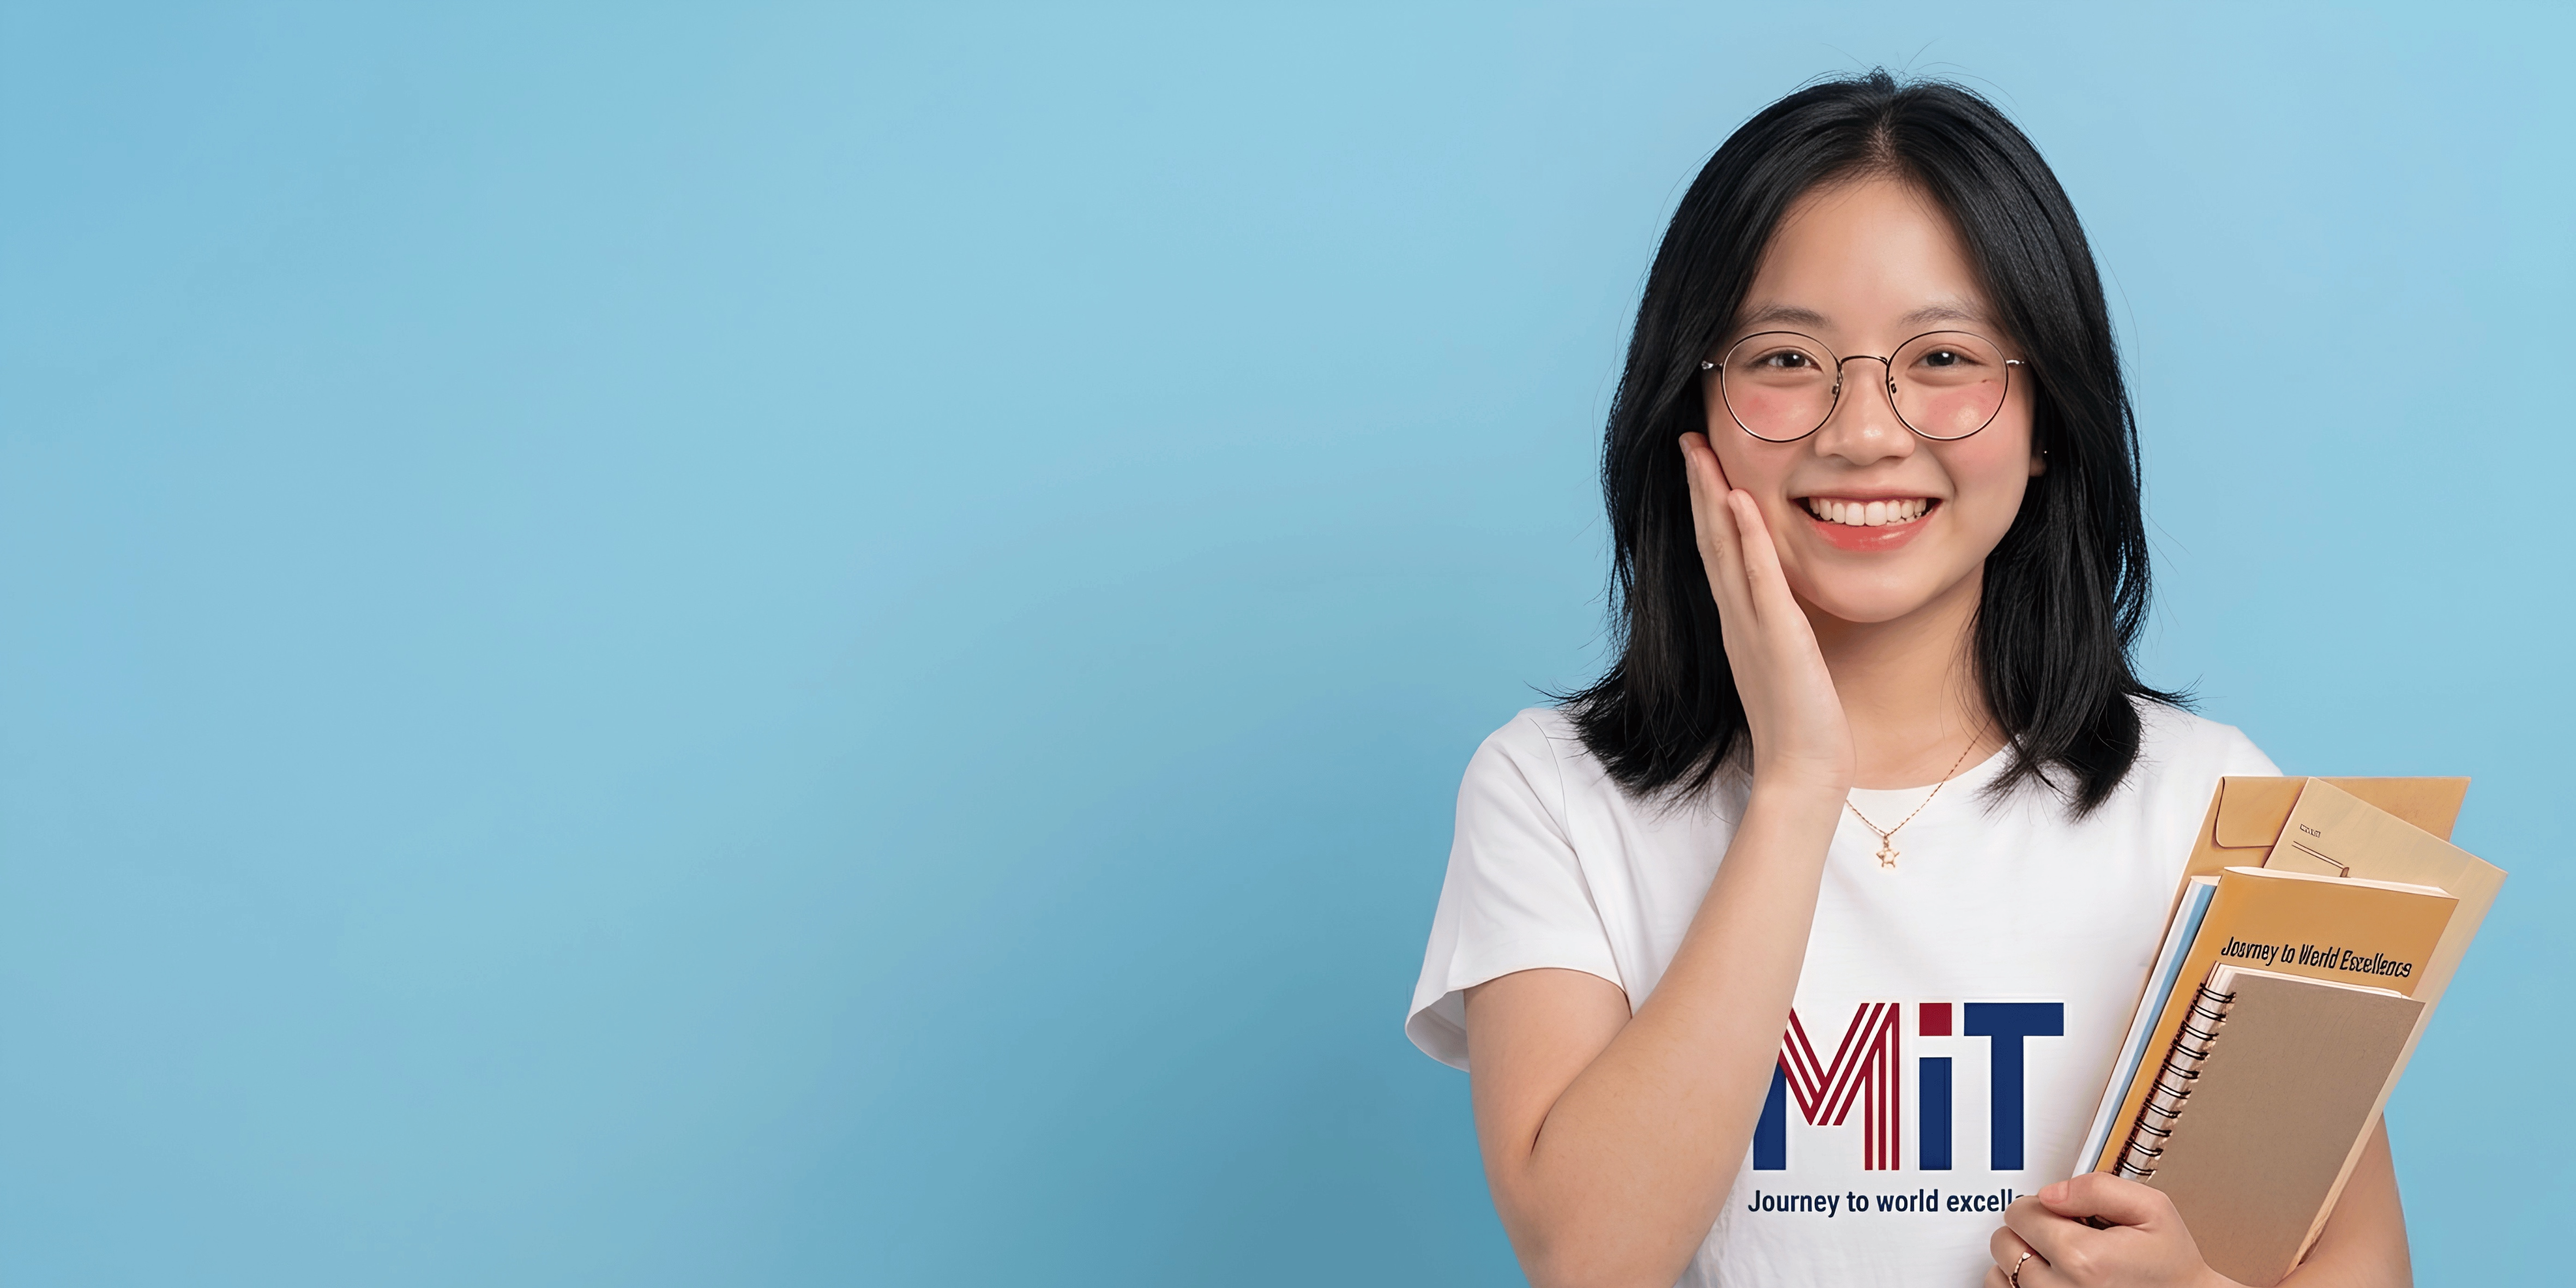
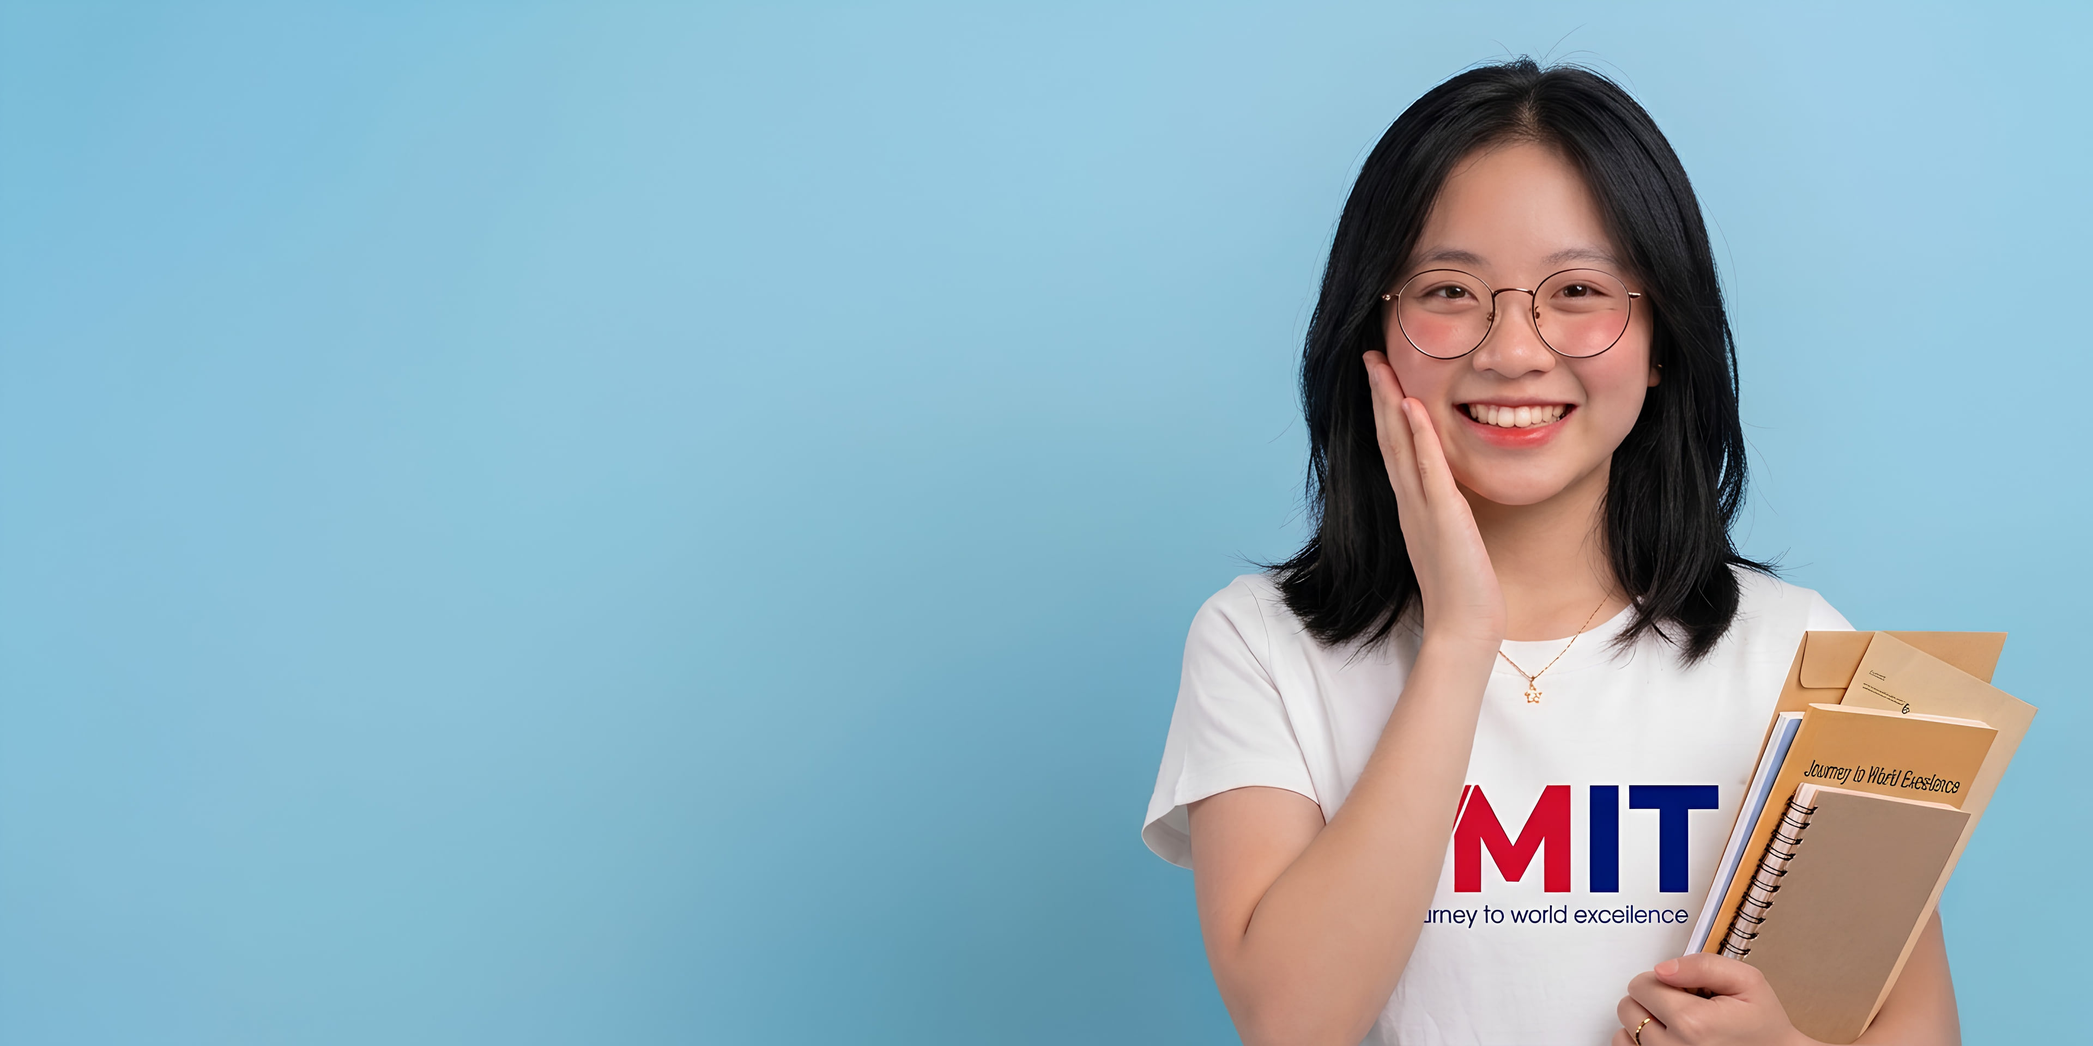
Replace hero and Learn anything images with sharp, lightweight VMIT photos.
Hero uses the new VMIT shirt banner at 3840px (7.9 MB source to 290 KB); the about section shows the cut-out laptop student on a brand-tint backdrop instead of the shared campus image. Enable AVIF/WebP and lower hero quality to 85.

diff --git a/src/components/modules/home/about-benefits.tsx b/src/components/modules/home/about-benefits.tsx
@@ -56,7 +56,7 @@ export function AboutBenefits({
   settings,
   counters,
   countersStatus,
-  imageUrl = MEDIA.campusFacility,
+  imageUrl = MEDIA.aboutStudent,
 }: {
   settings: Record<string, unknown>
   counters: Counter[]
@@ -75,8 +75,19 @@ export function AboutBenefits({
     <>
       <section className="bg-mist py-16 md:py-24">
         <div className="mx-auto grid max-w-[85%] items-stretch gap-0 lg:grid-cols-2">
-          <Reveal className="relative min-h-[380px] lg:min-h-[560px]">
-            <Image src={imageUrl} alt="" fill className="object-cover" sizes="(max-width:1024px) 100vw, 42.5vw" />
+          <Reveal className="relative min-h-[380px] overflow-hidden bg-gradient-to-b from-primary/10 to-primary/30 lg:min-h-[560px]">
+            <div
+              aria-hidden
+              className="absolute left-1/2 top-[12%] aspect-square w-[80%] max-w-[560px] -translate-x-1/2 rounded-full bg-white/50"
+            />
+            <Image
+              src={imageUrl}
+              alt={locale === "vi" ? "Sinh viên VMIT học cùng laptop" : "VMIT student learning on a laptop"}
+              fill
+              quality={85}
+              className="object-contain object-bottom pt-8"
+              sizes="(max-width:1024px) 100vw, 42.5vw"
+            />
           </Reveal>
           <div className="bg-mist px-0 py-10 lg:px-12 lg:py-14">
             <Reveal>

diff --git a/src/constants/media.ts b/src/constants/media.ts
@@ -2,6 +2,7 @@ export const MEDIA = {
   hero: "/media/banners/hero-vmit-student.jpg",
   heroStudent: "/media/banners/hero-vmit-student.jpg",
   heroCampusUk: "/media/banners/hero-campus-uk.jpg",
+  aboutStudent: "/media/banners/about-vmit-student.webp",
   studentsStudy: "/media/banners/students-asian-classroom.jpg",
   campusFacility: "/media/banners/campus-quad.jpg",
   studentsCollab: "/media/banners/students-asian-collab.jpg",

diff --git a/src/components/modules/home/home-page.tsx b/src/components/modules/home/home-page.tsx
@@ -38,7 +38,6 @@ export default function HomePage({ cms }: { cms: HomeCmsProps }) {
           settings={cms.settings}
           counters={cms.counters}
           countersStatus={cms.countersStatus}
-          imageUrl={String(heroSettings.campus_image_url)}
         />
         <ProgramsPreview courses={cms.courses} status={cms.coursesStatus} />
         <SubjectsGrid items={cms.subjects} status={cms.subjectsStatus} />

diff --git a/src/components/modules/home/hero-section.tsx b/src/components/modules/home/hero-section.tsx
@@ -82,7 +82,7 @@ export function HeroSection({ onOpenScholarship, settings }: HeroSectionProps) {
           alt={locale === "vi" ? "Sinh viên VMIT" : "VMIT student"}
           fill
           priority
-          quality={95}
+          quality={85}
           sizes="100vw"
           frameClassName="absolute inset-0 h-full w-full"
           className="object-cover object-[88%_center] md:object-[82%_center]"

diff --git a/next.config.ts b/next.config.ts
@@ -8,6 +8,7 @@ const nextConfig: NextConfig = {
     ignoreDuringBuilds: true,
   },
   images: {
+    formats: ["image/avif", "image/webp"],
     remotePatterns: [
       {
         protocol: "https",
